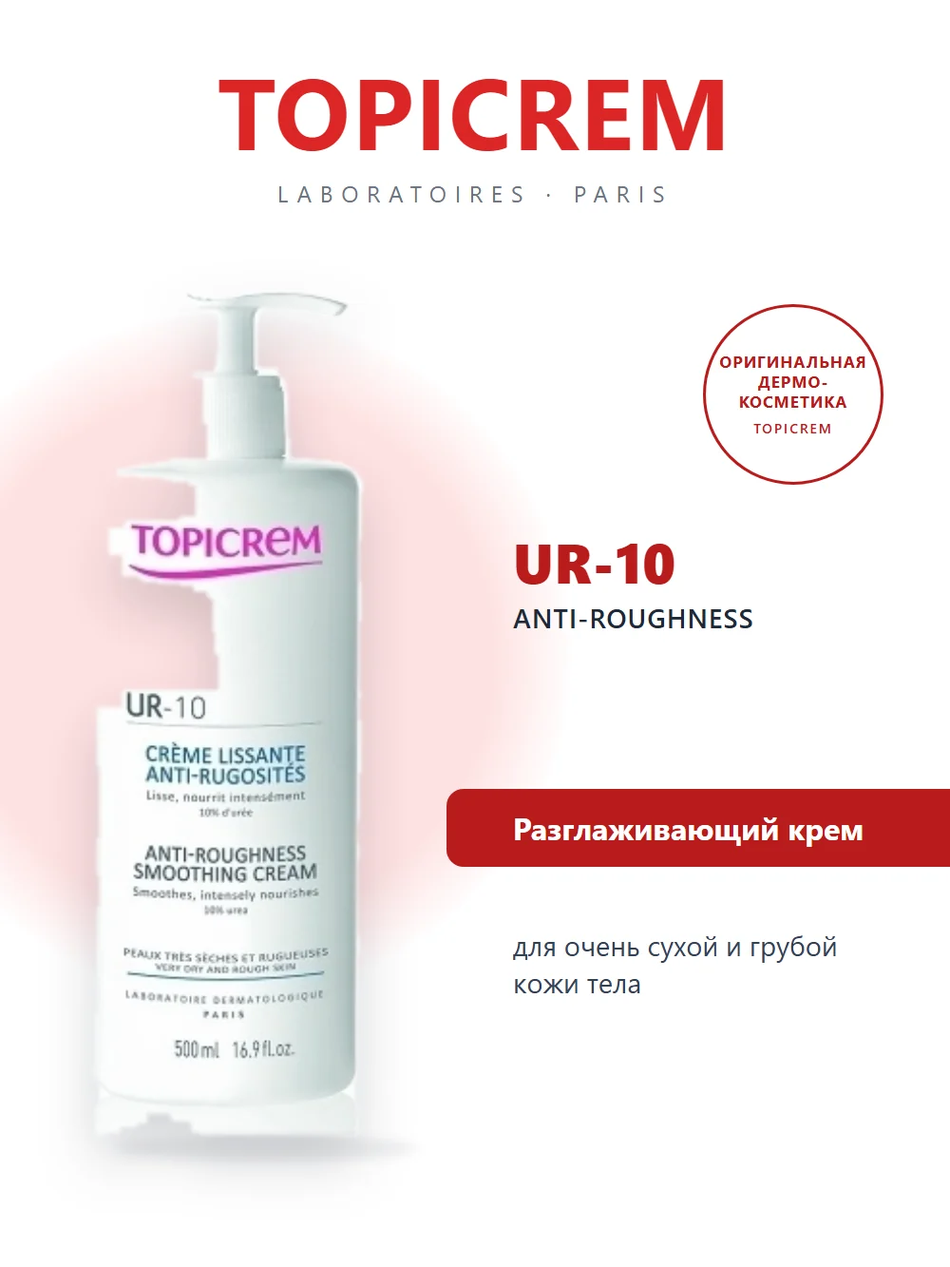
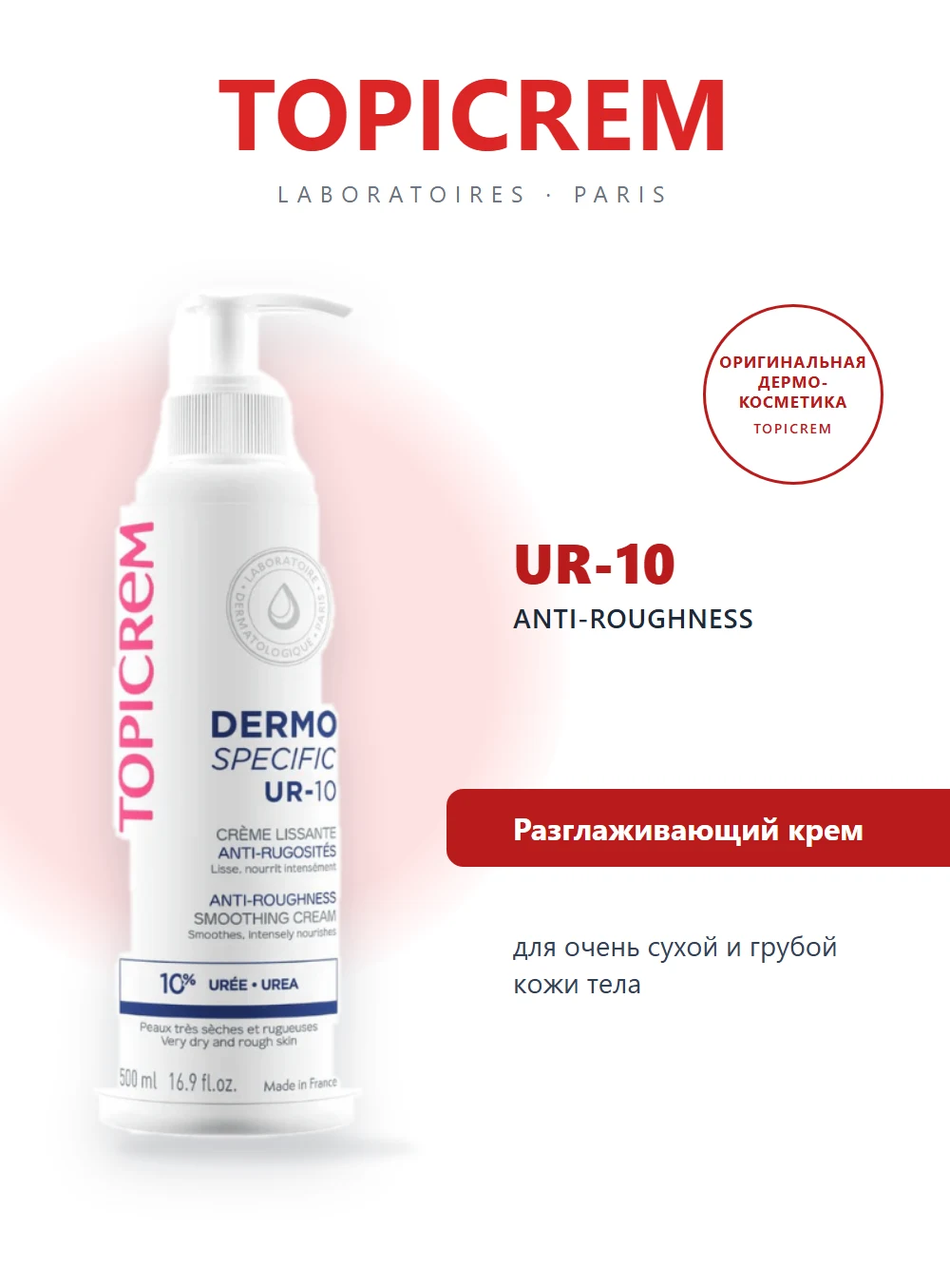
Topicrem UR-10 karti: guncel ambalajli yuksek cozunurluklu resim, tam siluet

Changed region(s): [[0.093, 0.2153, 0.403, 0.9227], [0.31, 0.2153, 0.372, 0.2461]]

diff --git a/assets/image-versions.js b/assets/image-versions.js
@@ -1,2 +1,2 @@
 /* scripts/generate-seo-feed.js tarafindan uretilir - elle duzenleme */
-window.IMAGE_VERSIONS = {"/products/a-derma-biology-ac-global-card.webp":"55bfe73f","/products/a-derma-biology-ac-hydra-card.webp":"f585afe7","/products/a-derma-biology-ac-perfect-card.webp":"fcf07359","/products/a-derma-dermalibour-cica-creme-card.webp":"5ad807fb","/products/a-derma-epitheliale-ah-ultra-card.webp":"64876be0","/products/a-derma-exomega-allergo-baume-card.webp":"90555ca7","/products/a-derma-exomega-control-baume-card.webp":"81b2469d","/products/a-derma-exomega-control-creme-card.webp":"2de73e95","/products/abcderm-babysquam.webp":"c1ded320","/products/abcderm-change-intensif-v2.webp":"057112b1","/products/abcderm-foaming-cleanser-v2.webp":"f39b1f9b","/products/anaphase-serum-card.webp":"534c72bd","/products/anaphase-shampoo.webp":"2915d842","/products/anthelios-uvmune-fluide-card.webp":"9f9e3ce9","/products/antirougeurs-fort-card.webp":"72e94cb7","/products/antirougeurs-jour-card.webp":"1b9ba12f","/products/aqualia-thermal-leger-card.webp":"218fbc38","/products/atoderm-2in1-body-oil-v2.webp":"5a48bb20","/products/atoderm-creme-ultra-200ml.webp":"2cc282da","/products/atoderm-creme-ultra-v2.webp":"dfbe830b","/products/atoderm-hand-nail-cream-v2.webp":"2f3f3ca8","/products/atoderm-huile-de-douche.webp":"761f4ba1","/products/atoderm-intensive-baume-200ml.webp":"92ae907d","/products/atoderm-intensive-baume-v2.webp":"6da0342c","/products/atoderm-intensive-eye-v2.webp":"c676f202","/products/atoderm-intensive-gel-cream-v2.webp":"d3c646ad","/products/atoderm-intensive-gel-moussant-500ml-v3.webp":"58f2aeb9","/products/atoderm-lip-balm-v2.webp":"fb4c82c8","/products/atoderm-nutrition-cream-v2.webp":"7604f430","/products/atoderm-pp-baume.webp":"57be6f56","/products/atoderm-shower-gel-v2.webp":"cbaf20b5","/products/atoderm-stick-levres-v2.webp":"86db31e3","/products/bariederm-cica-creme-card.webp":"c515336c","/products/bariederm-cica-gel-card.webp":"0a1677e3","/products/capital-soleil-lait-card.webp":"044db4b8","/products/capital-soleil-uv-age-card.webp":"ffe70961","/products/caudalie-eau-de-beaute-card.webp":"ef9e4a8e","/products/caudalie-premier-cru-eye-card.webp":"c5408109","/products/caudalie-resveratrol-lift-eye-card.webp":"63bd00c8","/products/caudalie-resveratrol-lift-night-card.webp":"e98e4afe","/products/caudalie-vinoclean-micellar-card.webp":"fa24c874","/products/caudalie-vinohydra-intense-cream-card.webp":"b2fbabba","/products/caudalie-vinohydra-serum-card.webp":"2ecbbfa9","/products/caudalie-vinoperfect-glycolic-mask-card.webp":"50311fae","/products/caudalie-vinoperfect-niacinamide-cream-card.webp":"c74a3964","/products/caudalie-vinopure-serum-card.webp":"64209e0d","/products/caudalie-vinotherapist-hand-cream-card.webp":"42230d87","/products/cicabio-arnica-plus-v2.webp":"bcdf9826","/products/cicabio-cleansing-balm-v2.webp":"183cf77e","/products/cicabio-creme-plus-v2.webp":"88c945b5","/products/cicabio-hand-cream-v2.webp":"71819ce1","/products/cicabio-lip-repair-v2.webp":"3b4c61d4","/products/cicabio-lotion-spray.webp":"e73d9410","/products/cicalfate-plus-creme-card.webp":"15fc1f2f","/products/cicalfate-plus-lotion-card.webp":"e72025c3","/products/cicaplast-baume-b5-card.webp":"e86bdc2d","/products/cicaplast-gel-b5-card.webp":"599f6434","/products/cleanance-comedomed-card.webp":"5a10b990","/products/cleanance-gel-moussant-card.webp":"ad28eaa8","/products/diopti-anti-fatigue-card.webp":"52b87467","/products/ds-laboratoire-creme-card.webp":"44f06522","/products/ds-laboratoire-gel-card.webp":"2a92bb81","/products/eau-cellulaire-brume-200ml.webp":"a349ad7e","/products/eau-thermale-brume-card.webp":"30ad361e","/products/effaclar-duo-card.webp":"a4b3ef86","/products/effaclar-gel-moussant-card.webp":"a904eac0","/products/esthe-white-brightening-cleansing-foam-150ml.webp":"0eca571a","/products/esthederm-age-proteom-serum-30ml.webp":"8b9a914b","/products/esthederm-bronz-impulse-150ml.webp":"e8e42585","/products/esthederm-excellage-cream-50ml.webp":"35c66c5f","/products/esthederm-excellage-eye-care-15ml.webp":"a6f6f5f8","/products/esthederm-intensive-aha-peel-serum-30ml.webp":"0668f093","/products/esthederm-intensive-hyaluronic-cream-50ml.webp":"86b9fe62","/products/esthederm-intensive-hyaluronic-eye-serum-15ml.webp":"bde1aa5a","/products/esthederm-intensive-hyaluronic-mask-50ml.webp":"c3c5879b","/products/esthederm-intensive-hyaluronic-serum-30ml.webp":"17fb4dfb","/products/esthederm-intensive-nad-cream-50ml.webp":"877fbd70","/products/esthederm-intensive-nad-serum-30ml.webp":"1d646809","/products/esthederm-intensive-pro-collagen-cream-50ml.webp":"88c7e0be","/products/esthederm-intensive-pro-collagen-serum-30ml.webp":"bfe31fad","/products/esthederm-intensive-propolis-ferulic-cream-50ml.webp":"f2f49de1","/products/esthederm-intensive-propolis-kaolin-mask-75ml.webp":"80b21e8e","/products/esthederm-intensive-propolis-salicylic-serum-30ml.webp":"97b3855d","/products/esthederm-intensive-propolis-zinc-serum-lotion-130ml.webp":"7309d9b3","/products/esthederm-intensive-retinol-cream-50ml.webp":"4de37fb2","/products/esthederm-intensive-retinol-oil-serum-15ml.webp":"a18f03a9","/products/esthederm-intensive-spiruline-cream-50ml.webp":"d8f668c5","/products/esthederm-intensive-spiruline-serum-30ml.webp":"0a44c910","/products/esthederm-intensive-vitamine-c-gel-cream-50ml.webp":"8911ae88","/products/esthederm-intensive-vitamine-e2-serum-30ml.webp":"105fa9c0","/products/esthederm-into-repair-50ml.webp":"7e3c76a6","/products/esthederm-lift-repair-cream-50ml.webp":"2b19d3d0","/products/esthederm-lift-repair-eye-contour-15ml.webp":"66ac5bc3","/products/esthederm-photo-reverse-spf50-50ml.webp":"2f973993","/products/filorga-hydra-hyal-cream-card.webp":"524a7fc2","/products/filorga-hydra-hyal-serum-card.webp":"b1a649fc","/products/filorga-meso-mask-card.webp":"13ec8274","/products/filorga-optim-eyes-card.webp":"b1f23235","/products/filorga-skin-prep-micellar-card.webp":"da853b90","/products/filorga-time-filler-5xp-cream-card.webp":"e84b9579","/products/filorga-universal-cream-card.webp":"d8d400fc","/products/huile-prodigieuse-dry-oil-card.webp":"53fe821a","/products/huile-prodigieuse-florale-card.webp":"c60c2f3a","/products/hydrabio-creme.webp":"9036dc12","/products/hydrabio-foaming-gel-v2.webp":"3825d511","/products/hydrabio-gel-creme-v2.webp":"572d86a1","/products/hydrabio-h2o-v3.webp":"02805d03","/products/hydrabio-hyalu-plus-serum.webp":"9cee76ff","/products/hydrabio-legere.webp":"bdffc657","/products/hydrabio-riche-cream-v2.webp":"dc90804d","/products/hydrabio-tonique.webp":"a87e530f","/products/hydrance-aqua-gel-card.webp":"125492a2","/products/hydrance-riche-card.webp":"bc2bbd50","/products/hyseac-3-regul-card.webp":"ffab7149","/products/hyseac-gel-moussant-card.webp":"0ba462ce","/products/isispharma-metroruboril-az-card.webp":"7798e4cc","/products/isispharma-neotone-gel-card.webp":"e5099efb","/products/isispharma-ruboril-expert-m-card.webp":"bc20a8a5","/products/isispharma-ruboril-expert-s-card.webp":"456b470b","/products/isispharma-secalia-ato-baume-card.webp":"01894c8e","/products/isispharma-teen-derm-az-card.webp":"b9cbf55e","/products/isispharma-teen-derm-gel-card.webp":"8738706a","/products/isispharma-teen-derm-hydra-card.webp":"1ceb7f9a","/products/isispharma-urelia-10-card.webp":"0a03b7db","/products/isispharma-uveblock-spf50-invisible-card.webp":"750fae86","/products/kelual-ds-shampoo-card.webp":"f76bbb57","/products/lait-creme-concentre-card.webp":"de84b585","/products/liftactiv-collagen-specialist-card.webp":"6a640555","/products/lipikar-baume-apm-card.webp":"c24748cf","/products/lipikar-syndet-ap-card.webp":"b9c0d2d4","/products/mineral89-booster-card.webp":"c7b26a72","/products/mineral89-eyes-card.webp":"da0e1305","/products/mustela-baby-oil-card.webp":"83153314","/products/mustela-diaper-cream-123-card.webp":"36c34656","/products/mustela-gentle-cleansing-gel-card.webp":"0194f27d","/products/mustela-hydra-bebe-lotion-card.webp":"ef49c59a","/products/mustela-liniment-card.webp":"a3db29a3","/products/mustela-nourishing-cleansing-gel-card.webp":"1c2ebea9","/products/mustela-stelatopia-cleansing-gel-card.webp":"eac98f19","/products/mustela-stelatopia-cleansing-oil-card.webp":"9b252454","/products/mustela-stelatopia-cream-card.webp":"47fe7ff6","/products/mustela-stretch-marks-cream-card.webp":"10044323","/products/mustela-stretch-marks-oil-card.webp":"989095f1","/products/mustela-sun-lotion-spf50-card.webp":"b5e40cfe","/products/mustela-sun-stick-spf50-card.webp":"e7d83a70","/products/node-a-shampooing.webp":"e584cafc","/products/node-ds-plus.webp":"22c3d1dd","/products/node-fluid.webp":"41e9fe1b","/products/node-g-shampooing.webp":"481b61f9","/products/node-k-shampooing.webp":"6b983f9c","/products/node-p-shampooing.webp":"d91b95d8","/products/noreva-aquareva-contour-yeux-card.webp":"e4cb0797","/products/noreva-aquareva-riche-card.webp":"0a6ea4c4","/products/noreva-cicadiane-spf50-card.webp":"95be9395","/products/noreva-exfoliac-creme-reparatrice-card.webp":"9622a2a0","/products/noreva-exfoliac-gel-moussant-doux-card.webp":"49ef11f0","/products/noreva-exfoliac-global-x-pro-card.webp":"9bc09e29","/products/noreva-exfoliac-gommage-purifiant-card.webp":"97e013b4","/products/noreva-iklen-plus-serum-card.webp":"2b155be7","/products/noreva-sensidiane-ar-plus-card.webp":"f994f64d","/products/noreva-xerodiane-ap-plus-card.webp":"51d1d7ac","/products/normaderm-gel-moussant-card.webp":"4f7df24b","/products/normaderm-phytosolution-card.webp":"4d8284ed","/products/osmoclean-calming-cleansing-milk-400ml.webp":"75ed7e7d","/products/osmoclean-demaquillant-yeux-levres-125ml.webp":"9158b6cf","/products/osmoclean-gentle-deep-pore-cleanser-75ml.webp":"65a461c4","/products/osmoclean-hydra-replenishing-lotion-400ml.webp":"feddf1ea","/products/osmoclean-lightening-buffing-mask-75ml.webp":"296a584d","/products/osmoclean-micellar-water-200ml.webp":"10e24e85","/products/osmoclean-pure-cleansing-gel-150ml.webp":"bbe6fb81","/products/photoderm-after-sun-gel-cream-v2.webp":"34c86744","/products/photoderm-akn-mat-spf30.webp":"ef353359","/products/photoderm-ar-plus-ultra-fluid-spf50-v2.webp":"fb80c91c","/products/photoderm-cover-touch-v2.webp":"e4fb02af","/products/photoderm-cream-spf50-v2.webp":"2efaf1c7","/products/photoderm-fluide-max-spf100.webp":"7f6dbe98","/products/photoderm-kid-spray.webp":"31a0fe59","/products/photoderm-lait-ultra-spf50-v2.webp":"87b2b1c6","/products/photoderm-m-spf50-light-v2.webp":"69ce6f89","/products/photoderm-mineral-compact-light-spf50.webp":"1e2e1b1b","/products/photoderm-nude-touch-spf50.webp":"b052b062","/products/photoderm-pediatrics-lait-v3.webp":"bb40e990","/products/photoderm-spot-age-spf50-v2.webp":"e3c46a08","/products/photoderm-spot-spf50-v2.webp":"bebb945e","/products/photoderm-spray-spf50.webp":"2770bf94","/products/photoderm-xdefense-ultra-fluid-spf50-v2.webp":"f22ae523","/products/pigmentbio-c-concentrate-v2.webp":"4cdd1c08","/products/pigmentbio-daily-care-spf50-v2.webp":"1702c323","/products/pigmentbio-foaming-cream-v2.webp":"050ef193","/products/pigmentbio-h2o-v2.webp":"23edd5c2","/products/pigmentbio-night-renewer-v2.webp":"d89559aa","/products/pigmentbio-sensitive-areas-v2.webp":"c0fbf929","/products/premium-creme-voluptueuse-card.webp":"307655de","/products/premium-le-serum-card.webp":"ca7c3d50","/products/radiant-complexion-cream-card.webp":"605f2959","/products/reve-de-miel-face-cream-card.webp":"5cb6c49e","/products/reve-de-miel-lip-balm-card.webp":"f50b5789","/products/sebiaclear-gel-moussant-card.webp":"de93734d","/products/sebiaclear-serum-card.webp":"0c07bdf6","/products/sebium-exfoliating-gel-v2.webp":"6fe6f278","/products/sebium-gel-moussant-100ml.webp":"c8abfcbe","/products/sebium-gel-moussant-200ml-v2.webp":"200514ce","/products/sebium-gel-moussant-400ml.webp":"672bb67b","/products/sebium-gel-moussant-actif.webp":"ab554c43","/products/sebium-h2o.webp":"1b8f8378","/products/sebium-hydra-cleanser.webp":"44378aa2","/products/sebium-hydra.webp":"9a109a7b","/products/sebium-kerato-plus-body.webp":"986aa088","/products/sebium-kerato-plus.webp":"8c10c3a0","/products/sebium-lotion.webp":"14fef9ab","/products/sebium-mat-control.webp":"58ffe450","/products/sebium-night-peel.webp":"467ac7a9","/products/sebium-pore-refiner.webp":"9634bfe2","/products/sebium-sensitive-v2.webp":"416b116e","/products/sebium-serum.webp":"c6ddd6b0","/products/sensibio-ar-bb-cream-v2.webp":"779b1a23","/products/sensibio-ar-bi-serum-v2.webp":"e4a3166b","/products/sensibio-ar-cc-cream-spf50-v2.webp":"9db14069","/products/sensibio-ar-cream-v2.webp":"baa9c71c","/products/sensibio-ar-micellar-gel-v2.webp":"18ddaeb6","/products/sensibio-ar-sos-spray-v2.webp":"9911867d","/products/sensibio-ar-v2.webp":"baa9c71c","/products/sensibio-defensive-rich-cream-v2.webp":"7c067379","/products/sensibio-defensive-serum-v2.webp":"d3d6bb21","/products/sensibio-defensive.webp":"37f4a3d1","/products/sensibio-ds-cream-v2.webp":"2025086b","/products/sensibio-ds-foaming-gel-v2.webp":"3fad0cc6","/products/sensibio-eye-contour-gel-v2.webp":"308568bd","/products/sensibio-eye.webp":"308568bd","/products/sensibio-forte.webp":"f8f3cc98","/products/sensibio-gel-moussant-100ml.webp":"0b2b8746","/products/sensibio-gel-moussant-200ml-v2.webp":"8bde844f","/products/sensibio-gel-moussant-500ml.webp":"0628628e","/products/sensibio-h2o-ar.webp":"ee9bc5a8","/products/sensibio-h2o-eye-v2.webp":"6b5affa6","/products/sensibio-h2o.webp":"5645fbd4","/products/sensibio-micellar-cleansing-oil-v2.webp":"f9edabd1","/products/sensibio-tonique.webp":"cad62d42","/products/squanorm-dry.webp":"2915d842","/products/squanorm-oily-card.webp":"7289b9ed","/products/tolerance-extreme-emulsion-card.webp":"58948cca","/products/toleriane-caring-wash-card.webp":"e33652b1","/products/toleriane-dermallegro-card.webp":"bc2d98bb","/products/topialyse-baume-card.webp":"ea7102b8","/products/topicrem-baby-gel-card.webp":"6116f127","/products/topicrem-cica-creme-card.webp":"8c4736db","/products/topicrem-da-baume-protect-card.webp":"2d617543","/products/topicrem-da-gel-surgras-card.webp":"a36d6fdf","/products/topicrem-gentle-shampoo-card.webp":"327c1f2a","/products/topicrem-ultra-hydratant-gel-card.webp":"d099df76","/products/topicrem-ultra-hydratant-lait-card.webp":"a1c2e188","/products/topicrem-ur10-creme-card.webp":"c7f65017","/products/xemose-creme-card.webp":"5f240994","/products/xemose-huile-lavante-card.webp":"66407889","/assets/brands/a-derma.svg":"6a4366a3","/assets/brands/avene.png":"5fc0f66a","/assets/brands/bioderma.png":"50c75237","/assets/brands/caudalie.svg":"4e54e4a0","/assets/brands/ducray.png":"14861385","/assets/brands/embryolisse.png":"0da6f321","/assets/brands/filorga.svg":"d6804fd2","/assets/brands/institut-esthederm.svg":"5b921023","/assets/brands/isispharma.svg":"d806335d","/assets/brands/kaspi-ikon.svg":"298ecea2","/assets/brands/la-roche-posay.svg":"c9dee276","/assets/brands/lierac.svg":"cb67e1dd","/assets/brands/mustela.png":"98bc0ea1","/assets/brands/noreva.svg":"44ec837f","/assets/brands/nuxe.svg":"a9442d87","/assets/brands/ozon-ikon.svg":"79c92083","/assets/brands/svr.png":"ed98003b","/assets/brands/topicrem.svg":"f1b246e7","/assets/brands/uriage.svg":"1cd83122","/assets/brands/vichy.jpg":"af613ca4","/assets/brands/wb-ikon.svg":"58593ea4"};
+window.IMAGE_VERSIONS = {"/products/a-derma-biology-ac-global-card.webp":"55bfe73f","/products/a-derma-biology-ac-hydra-card.webp":"f585afe7","/products/a-derma-biology-ac-perfect-card.webp":"fcf07359","/products/a-derma-dermalibour-cica-creme-card.webp":"5ad807fb","/products/a-derma-epitheliale-ah-ultra-card.webp":"64876be0","/products/a-derma-exomega-allergo-baume-card.webp":"90555ca7","/products/a-derma-exomega-control-baume-card.webp":"81b2469d","/products/a-derma-exomega-control-creme-card.webp":"2de73e95","/products/abcderm-babysquam.webp":"c1ded320","/products/abcderm-change-intensif-v2.webp":"057112b1","/products/abcderm-foaming-cleanser-v2.webp":"f39b1f9b","/products/anaphase-serum-card.webp":"534c72bd","/products/anaphase-shampoo.webp":"2915d842","/products/anthelios-uvmune-fluide-card.webp":"9f9e3ce9","/products/antirougeurs-fort-card.webp":"72e94cb7","/products/antirougeurs-jour-card.webp":"1b9ba12f","/products/aqualia-thermal-leger-card.webp":"218fbc38","/products/atoderm-2in1-body-oil-v2.webp":"5a48bb20","/products/atoderm-creme-ultra-200ml.webp":"2cc282da","/products/atoderm-creme-ultra-v2.webp":"dfbe830b","/products/atoderm-hand-nail-cream-v2.webp":"2f3f3ca8","/products/atoderm-huile-de-douche.webp":"761f4ba1","/products/atoderm-intensive-baume-200ml.webp":"92ae907d","/products/atoderm-intensive-baume-v2.webp":"6da0342c","/products/atoderm-intensive-eye-v2.webp":"c676f202","/products/atoderm-intensive-gel-cream-v2.webp":"d3c646ad","/products/atoderm-intensive-gel-moussant-500ml-v3.webp":"58f2aeb9","/products/atoderm-lip-balm-v2.webp":"fb4c82c8","/products/atoderm-nutrition-cream-v2.webp":"7604f430","/products/atoderm-pp-baume.webp":"57be6f56","/products/atoderm-shower-gel-v2.webp":"cbaf20b5","/products/atoderm-stick-levres-v2.webp":"86db31e3","/products/bariederm-cica-creme-card.webp":"c515336c","/products/bariederm-cica-gel-card.webp":"0a1677e3","/products/capital-soleil-lait-card.webp":"044db4b8","/products/capital-soleil-uv-age-card.webp":"ffe70961","/products/caudalie-eau-de-beaute-card.webp":"ef9e4a8e","/products/caudalie-premier-cru-eye-card.webp":"c5408109","/products/caudalie-resveratrol-lift-eye-card.webp":"63bd00c8","/products/caudalie-resveratrol-lift-night-card.webp":"e98e4afe","/products/caudalie-vinoclean-micellar-card.webp":"fa24c874","/products/caudalie-vinohydra-intense-cream-card.webp":"b2fbabba","/products/caudalie-vinohydra-serum-card.webp":"2ecbbfa9","/products/caudalie-vinoperfect-glycolic-mask-card.webp":"50311fae","/products/caudalie-vinoperfect-niacinamide-cream-card.webp":"c74a3964","/products/caudalie-vinopure-serum-card.webp":"64209e0d","/products/caudalie-vinotherapist-hand-cream-card.webp":"42230d87","/products/cicabio-arnica-plus-v2.webp":"bcdf9826","/products/cicabio-cleansing-balm-v2.webp":"183cf77e","/products/cicabio-creme-plus-v2.webp":"88c945b5","/products/cicabio-hand-cream-v2.webp":"71819ce1","/products/cicabio-lip-repair-v2.webp":"3b4c61d4","/products/cicabio-lotion-spray.webp":"e73d9410","/products/cicalfate-plus-creme-card.webp":"15fc1f2f","/products/cicalfate-plus-lotion-card.webp":"e72025c3","/products/cicaplast-baume-b5-card.webp":"e86bdc2d","/products/cicaplast-gel-b5-card.webp":"599f6434","/products/cleanance-comedomed-card.webp":"5a10b990","/products/cleanance-gel-moussant-card.webp":"ad28eaa8","/products/diopti-anti-fatigue-card.webp":"52b87467","/products/ds-laboratoire-creme-card.webp":"44f06522","/products/ds-laboratoire-gel-card.webp":"2a92bb81","/products/eau-cellulaire-brume-200ml.webp":"a349ad7e","/products/eau-thermale-brume-card.webp":"30ad361e","/products/effaclar-duo-card.webp":"a4b3ef86","/products/effaclar-gel-moussant-card.webp":"a904eac0","/products/esthe-white-brightening-cleansing-foam-150ml.webp":"0eca571a","/products/esthederm-age-proteom-serum-30ml.webp":"8b9a914b","/products/esthederm-bronz-impulse-150ml.webp":"e8e42585","/products/esthederm-excellage-cream-50ml.webp":"35c66c5f","/products/esthederm-excellage-eye-care-15ml.webp":"a6f6f5f8","/products/esthederm-intensive-aha-peel-serum-30ml.webp":"0668f093","/products/esthederm-intensive-hyaluronic-cream-50ml.webp":"86b9fe62","/products/esthederm-intensive-hyaluronic-eye-serum-15ml.webp":"bde1aa5a","/products/esthederm-intensive-hyaluronic-mask-50ml.webp":"c3c5879b","/products/esthederm-intensive-hyaluronic-serum-30ml.webp":"17fb4dfb","/products/esthederm-intensive-nad-cream-50ml.webp":"877fbd70","/products/esthederm-intensive-nad-serum-30ml.webp":"1d646809","/products/esthederm-intensive-pro-collagen-cream-50ml.webp":"88c7e0be","/products/esthederm-intensive-pro-collagen-serum-30ml.webp":"bfe31fad","/products/esthederm-intensive-propolis-ferulic-cream-50ml.webp":"f2f49de1","/products/esthederm-intensive-propolis-kaolin-mask-75ml.webp":"80b21e8e","/products/esthederm-intensive-propolis-salicylic-serum-30ml.webp":"97b3855d","/products/esthederm-intensive-propolis-zinc-serum-lotion-130ml.webp":"7309d9b3","/products/esthederm-intensive-retinol-cream-50ml.webp":"4de37fb2","/products/esthederm-intensive-retinol-oil-serum-15ml.webp":"a18f03a9","/products/esthederm-intensive-spiruline-cream-50ml.webp":"d8f668c5","/products/esthederm-intensive-spiruline-serum-30ml.webp":"0a44c910","/products/esthederm-intensive-vitamine-c-gel-cream-50ml.webp":"8911ae88","/products/esthederm-intensive-vitamine-e2-serum-30ml.webp":"105fa9c0","/products/esthederm-into-repair-50ml.webp":"7e3c76a6","/products/esthederm-lift-repair-cream-50ml.webp":"2b19d3d0","/products/esthederm-lift-repair-eye-contour-15ml.webp":"66ac5bc3","/products/esthederm-photo-reverse-spf50-50ml.webp":"2f973993","/products/filorga-hydra-hyal-cream-card.webp":"524a7fc2","/products/filorga-hydra-hyal-serum-card.webp":"b1a649fc","/products/filorga-meso-mask-card.webp":"13ec8274","/products/filorga-optim-eyes-card.webp":"b1f23235","/products/filorga-skin-prep-micellar-card.webp":"da853b90","/products/filorga-time-filler-5xp-cream-card.webp":"e84b9579","/products/filorga-universal-cream-card.webp":"d8d400fc","/products/huile-prodigieuse-dry-oil-card.webp":"53fe821a","/products/huile-prodigieuse-florale-card.webp":"c60c2f3a","/products/hydrabio-creme.webp":"9036dc12","/products/hydrabio-foaming-gel-v2.webp":"3825d511","/products/hydrabio-gel-creme-v2.webp":"572d86a1","/products/hydrabio-h2o-v3.webp":"02805d03","/products/hydrabio-hyalu-plus-serum.webp":"9cee76ff","/products/hydrabio-legere.webp":"bdffc657","/products/hydrabio-riche-cream-v2.webp":"dc90804d","/products/hydrabio-tonique.webp":"a87e530f","/products/hydrance-aqua-gel-card.webp":"125492a2","/products/hydrance-riche-card.webp":"bc2bbd50","/products/hyseac-3-regul-card.webp":"ffab7149","/products/hyseac-gel-moussant-card.webp":"0ba462ce","/products/isispharma-metroruboril-az-card.webp":"7798e4cc","/products/isispharma-neotone-gel-card.webp":"e5099efb","/products/isispharma-ruboril-expert-m-card.webp":"bc20a8a5","/products/isispharma-ruboril-expert-s-card.webp":"456b470b","/products/isispharma-secalia-ato-baume-card.webp":"01894c8e","/products/isispharma-teen-derm-az-card.webp":"b9cbf55e","/products/isispharma-teen-derm-gel-card.webp":"8738706a","/products/isispharma-teen-derm-hydra-card.webp":"1ceb7f9a","/products/isispharma-urelia-10-card.webp":"0a03b7db","/products/isispharma-uveblock-spf50-invisible-card.webp":"750fae86","/products/kelual-ds-shampoo-card.webp":"f76bbb57","/products/lait-creme-concentre-card.webp":"de84b585","/products/liftactiv-collagen-specialist-card.webp":"6a640555","/products/lipikar-baume-apm-card.webp":"c24748cf","/products/lipikar-syndet-ap-card.webp":"b9c0d2d4","/products/mineral89-booster-card.webp":"c7b26a72","/products/mineral89-eyes-card.webp":"da0e1305","/products/mustela-baby-oil-card.webp":"83153314","/products/mustela-diaper-cream-123-card.webp":"36c34656","/products/mustela-gentle-cleansing-gel-card.webp":"0194f27d","/products/mustela-hydra-bebe-lotion-card.webp":"ef49c59a","/products/mustela-liniment-card.webp":"a3db29a3","/products/mustela-nourishing-cleansing-gel-card.webp":"1c2ebea9","/products/mustela-stelatopia-cleansing-gel-card.webp":"eac98f19","/products/mustela-stelatopia-cleansing-oil-card.webp":"9b252454","/products/mustela-stelatopia-cream-card.webp":"47fe7ff6","/products/mustela-stretch-marks-cream-card.webp":"10044323","/products/mustela-stretch-marks-oil-card.webp":"989095f1","/products/mustela-sun-lotion-spf50-card.webp":"b5e40cfe","/products/mustela-sun-stick-spf50-card.webp":"e7d83a70","/products/node-a-shampooing.webp":"e584cafc","/products/node-ds-plus.webp":"22c3d1dd","/products/node-fluid.webp":"41e9fe1b","/products/node-g-shampooing.webp":"481b61f9","/products/node-k-shampooing.webp":"6b983f9c","/products/node-p-shampooing.webp":"d91b95d8","/products/noreva-aquareva-contour-yeux-card.webp":"e4cb0797","/products/noreva-aquareva-riche-card.webp":"0a6ea4c4","/products/noreva-cicadiane-spf50-card.webp":"95be9395","/products/noreva-exfoliac-creme-reparatrice-card.webp":"9622a2a0","/products/noreva-exfoliac-gel-moussant-doux-card.webp":"49ef11f0","/products/noreva-exfoliac-global-x-pro-card.webp":"9bc09e29","/products/noreva-exfoliac-gommage-purifiant-card.webp":"97e013b4","/products/noreva-iklen-plus-serum-card.webp":"2b155be7","/products/noreva-sensidiane-ar-plus-card.webp":"f994f64d","/products/noreva-xerodiane-ap-plus-card.webp":"51d1d7ac","/products/normaderm-gel-moussant-card.webp":"4f7df24b","/products/normaderm-phytosolution-card.webp":"4d8284ed","/products/osmoclean-calming-cleansing-milk-400ml.webp":"75ed7e7d","/products/osmoclean-demaquillant-yeux-levres-125ml.webp":"9158b6cf","/products/osmoclean-gentle-deep-pore-cleanser-75ml.webp":"65a461c4","/products/osmoclean-hydra-replenishing-lotion-400ml.webp":"feddf1ea","/products/osmoclean-lightening-buffing-mask-75ml.webp":"296a584d","/products/osmoclean-micellar-water-200ml.webp":"10e24e85","/products/osmoclean-pure-cleansing-gel-150ml.webp":"bbe6fb81","/products/photoderm-after-sun-gel-cream-v2.webp":"34c86744","/products/photoderm-akn-mat-spf30.webp":"ef353359","/products/photoderm-ar-plus-ultra-fluid-spf50-v2.webp":"fb80c91c","/products/photoderm-cover-touch-v2.webp":"e4fb02af","/products/photoderm-cream-spf50-v2.webp":"2efaf1c7","/products/photoderm-fluide-max-spf100.webp":"7f6dbe98","/products/photoderm-kid-spray.webp":"31a0fe59","/products/photoderm-lait-ultra-spf50-v2.webp":"87b2b1c6","/products/photoderm-m-spf50-light-v2.webp":"69ce6f89","/products/photoderm-mineral-compact-light-spf50.webp":"1e2e1b1b","/products/photoderm-nude-touch-spf50.webp":"b052b062","/products/photoderm-pediatrics-lait-v3.webp":"bb40e990","/products/photoderm-spot-age-spf50-v2.webp":"e3c46a08","/products/photoderm-spot-spf50-v2.webp":"bebb945e","/products/photoderm-spray-spf50.webp":"2770bf94","/products/photoderm-xdefense-ultra-fluid-spf50-v2.webp":"f22ae523","/products/pigmentbio-c-concentrate-v2.webp":"4cdd1c08","/products/pigmentbio-daily-care-spf50-v2.webp":"1702c323","/products/pigmentbio-foaming-cream-v2.webp":"050ef193","/products/pigmentbio-h2o-v2.webp":"23edd5c2","/products/pigmentbio-night-renewer-v2.webp":"d89559aa","/products/pigmentbio-sensitive-areas-v2.webp":"c0fbf929","/products/premium-creme-voluptueuse-card.webp":"307655de","/products/premium-le-serum-card.webp":"ca7c3d50","/products/radiant-complexion-cream-card.webp":"605f2959","/products/reve-de-miel-face-cream-card.webp":"5cb6c49e","/products/reve-de-miel-lip-balm-card.webp":"f50b5789","/products/sebiaclear-gel-moussant-card.webp":"de93734d","/products/sebiaclear-serum-card.webp":"0c07bdf6","/products/sebium-exfoliating-gel-v2.webp":"6fe6f278","/products/sebium-gel-moussant-100ml.webp":"c8abfcbe","/products/sebium-gel-moussant-200ml-v2.webp":"200514ce","/products/sebium-gel-moussant-400ml.webp":"672bb67b","/products/sebium-gel-moussant-actif.webp":"ab554c43","/products/sebium-h2o.webp":"1b8f8378","/products/sebium-hydra-cleanser.webp":"44378aa2","/products/sebium-hydra.webp":"9a109a7b","/products/sebium-kerato-plus-body.webp":"986aa088","/products/sebium-kerato-plus.webp":"8c10c3a0","/products/sebium-lotion.webp":"14fef9ab","/products/sebium-mat-control.webp":"58ffe450","/products/sebium-night-peel.webp":"467ac7a9","/products/sebium-pore-refiner.webp":"9634bfe2","/products/sebium-sensitive-v2.webp":"416b116e","/products/sebium-serum.webp":"c6ddd6b0","/products/sensibio-ar-bb-cream-v2.webp":"779b1a23","/products/sensibio-ar-bi-serum-v2.webp":"e4a3166b","/products/sensibio-ar-cc-cream-spf50-v2.webp":"9db14069","/products/sensibio-ar-cream-v2.webp":"baa9c71c","/products/sensibio-ar-micellar-gel-v2.webp":"18ddaeb6","/products/sensibio-ar-sos-spray-v2.webp":"9911867d","/products/sensibio-ar-v2.webp":"baa9c71c","/products/sensibio-defensive-rich-cream-v2.webp":"7c067379","/products/sensibio-defensive-serum-v2.webp":"d3d6bb21","/products/sensibio-defensive.webp":"37f4a3d1","/products/sensibio-ds-cream-v2.webp":"2025086b","/products/sensibio-ds-foaming-gel-v2.webp":"3fad0cc6","/products/sensibio-eye-contour-gel-v2.webp":"308568bd","/products/sensibio-eye.webp":"308568bd","/products/sensibio-forte.webp":"f8f3cc98","/products/sensibio-gel-moussant-100ml.webp":"0b2b8746","/products/sensibio-gel-moussant-200ml-v2.webp":"8bde844f","/products/sensibio-gel-moussant-500ml.webp":"0628628e","/products/sensibio-h2o-ar.webp":"ee9bc5a8","/products/sensibio-h2o-eye-v2.webp":"6b5affa6","/products/sensibio-h2o.webp":"5645fbd4","/products/sensibio-micellar-cleansing-oil-v2.webp":"f9edabd1","/products/sensibio-tonique.webp":"cad62d42","/products/squanorm-dry.webp":"2915d842","/products/squanorm-oily-card.webp":"7289b9ed","/products/tolerance-extreme-emulsion-card.webp":"58948cca","/products/toleriane-caring-wash-card.webp":"e33652b1","/products/toleriane-dermallegro-card.webp":"bc2d98bb","/products/topialyse-baume-card.webp":"ea7102b8","/products/topicrem-baby-gel-card.webp":"6116f127","/products/topicrem-cica-creme-card.webp":"8c4736db","/products/topicrem-da-baume-protect-card.webp":"2d617543","/products/topicrem-da-gel-surgras-card.webp":"a36d6fdf","/products/topicrem-gentle-shampoo-card.webp":"327c1f2a","/products/topicrem-ultra-hydratant-gel-card.webp":"d099df76","/products/topicrem-ultra-hydratant-lait-card.webp":"a1c2e188","/products/topicrem-ur10-creme-card.webp":"6172903e","/products/xemose-creme-card.webp":"5f240994","/products/xemose-huile-lavante-card.webp":"66407889","/assets/brands/a-derma.svg":"6a4366a3","/assets/brands/avene.png":"5fc0f66a","/assets/brands/bioderma.png":"50c75237","/assets/brands/caudalie.svg":"4e54e4a0","/assets/brands/ducray.png":"14861385","/assets/brands/embryolisse.png":"0da6f321","/assets/brands/filorga.svg":"d6804fd2","/assets/brands/institut-esthederm.svg":"5b921023","/assets/brands/isispharma.svg":"d806335d","/assets/brands/kaspi-ikon.svg":"298ecea2","/assets/brands/la-roche-posay.svg":"c9dee276","/assets/brands/lierac.svg":"cb67e1dd","/assets/brands/mustela.png":"98bc0ea1","/assets/brands/noreva.svg":"44ec837f","/assets/brands/nuxe.svg":"a9442d87","/assets/brands/ozon-ikon.svg":"79c92083","/assets/brands/svr.png":"ed98003b","/assets/brands/topicrem.svg":"f1b246e7","/assets/brands/uriage.svg":"1cd83122","/assets/brands/vichy.jpg":"af613ca4","/assets/brands/wb-ikon.svg":"58593ea4"};

diff --git a/index.html b/index.html
@@ -314,7 +314,7 @@
     </div>
 
     <script src="/assets/i18n.js?v=fe6ebbd58e"></script>
-    <script src="/assets/image-versions.js?v=011b32f612"></script>
+    <script src="/assets/image-versions.js?v=47f61a8378"></script>
     <script src="/assets/data.js?v=fdf53d14b8"></script>
     <script src="/assets/app.js?v=e569d71046"></script>
   </body>
